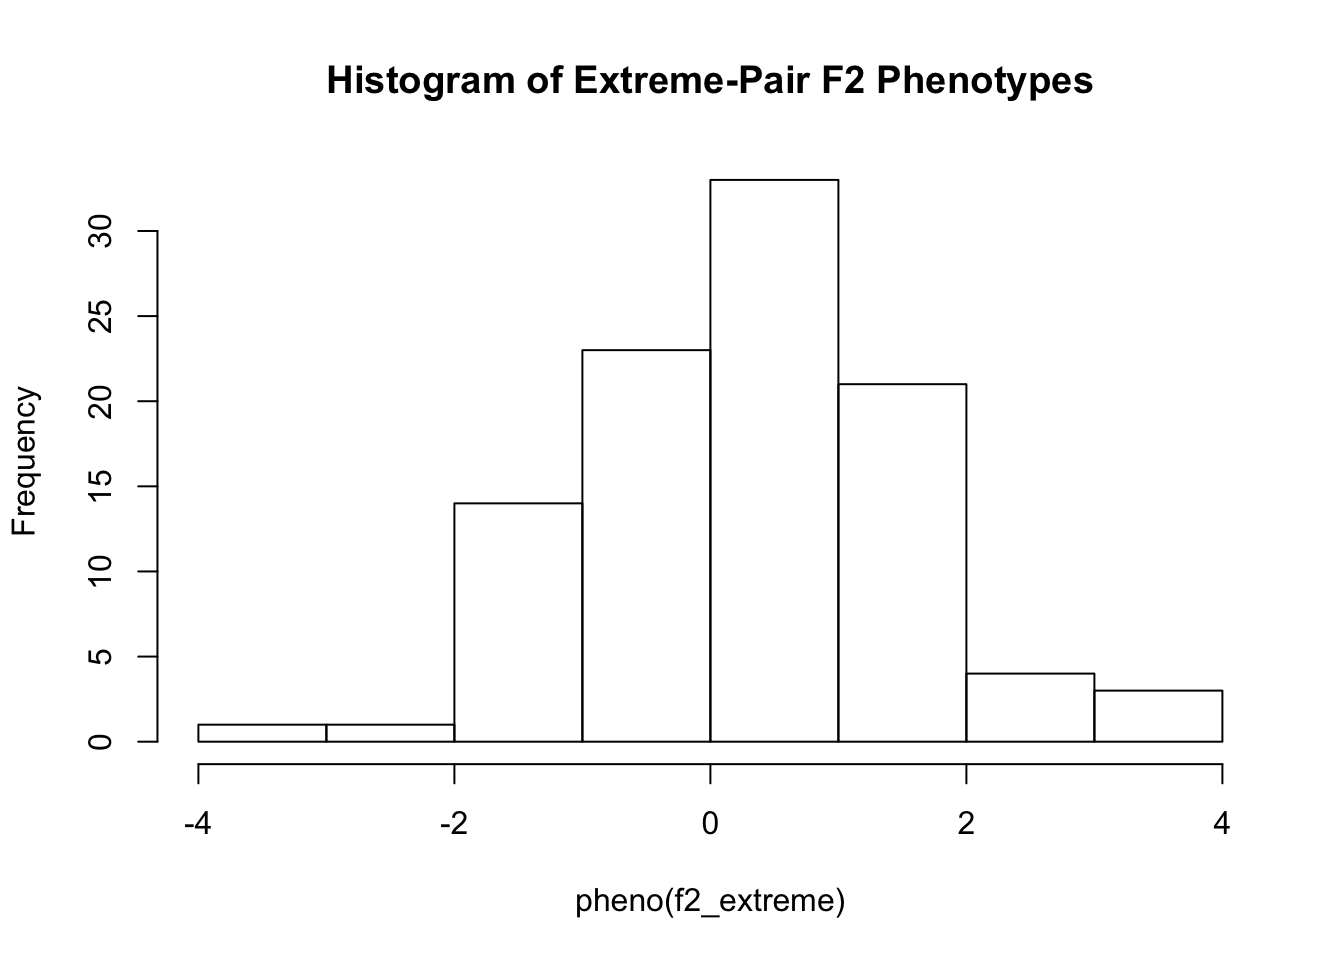
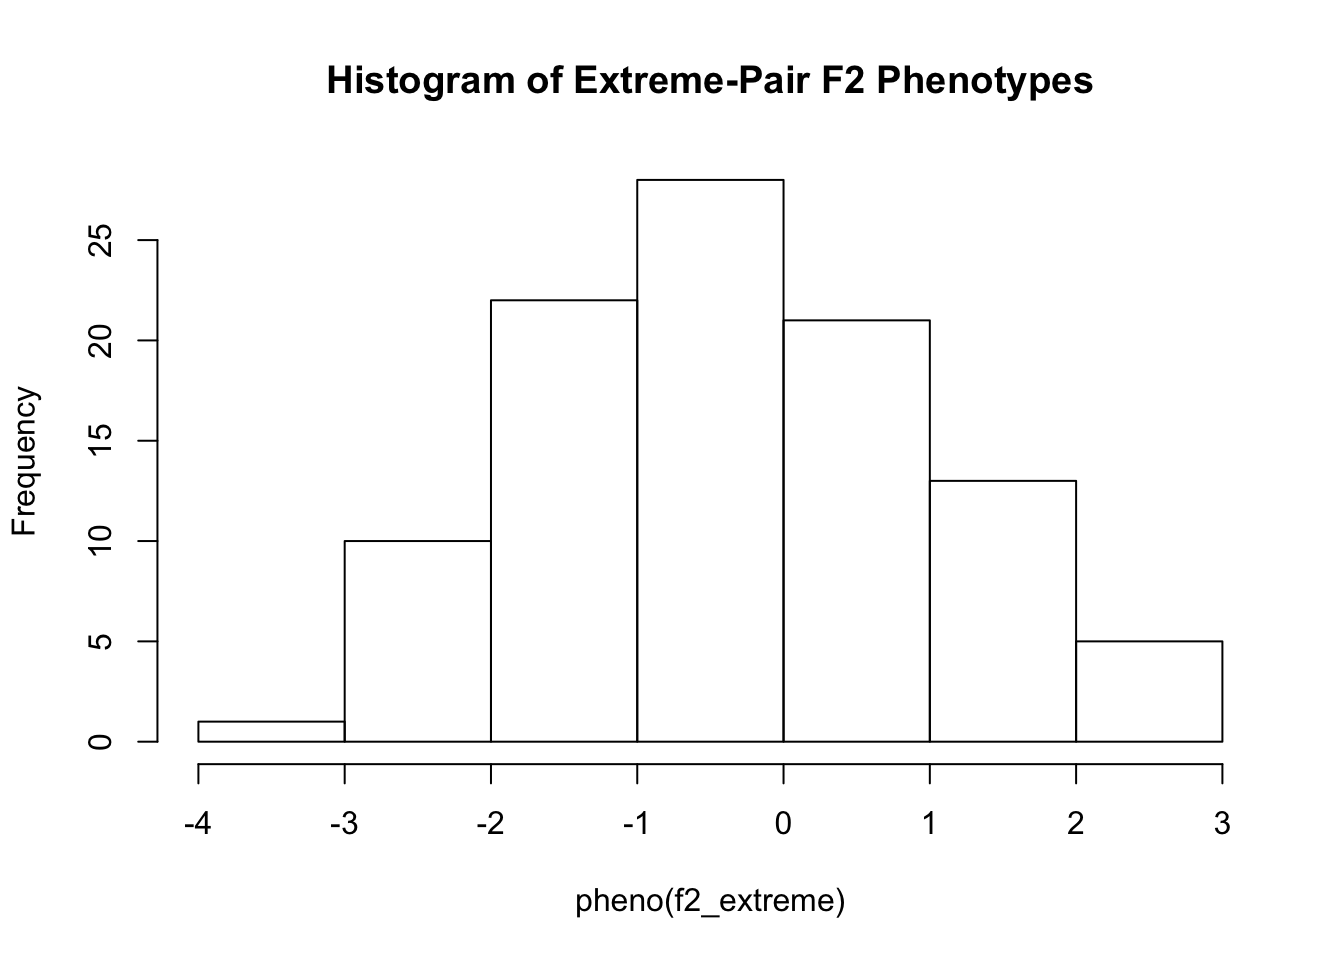
Build site.

diff --git a/docs/Lab1_ProgrammingAlphaSimR.html b/docs/Lab1_ProgrammingAlphaSimR.html
@@ -506,10 +506,10 @@ This reproducible <a href="http://rmarkdown.rstudio.com">R Markdown</a> analysis
 <div class="panel panel-default">
 <div class="panel-heading">
 <p class="panel-title">
-<a data-toggle="collapse" data-parent="#workflowr-checks" href="#strongRepositoryversionstrongahrefhttpsgithubcomjeanlucjLab17170tree9d95adde55e31a5804fe2f893de73e1dae128329targetblank9d95adda"> <span class="glyphicon glyphicon-ok text-success" aria-hidden="true"></span> <strong>Repository version:</strong> <a href="https://github.com/jeanlucj/Lab1_7170/tree/9d95adde55e31a5804fe2f893de73e1dae128329" target="_blank">9d95add</a> </a>
+<a data-toggle="collapse" data-parent="#workflowr-checks" href="#strongRepositoryversionstrongahrefhttpsgithubcomjeanlucjLab17170treec641e33cbccf7460e207a8fb644c655479b4bc87targetblankc641e33a"> <span class="glyphicon glyphicon-ok text-success" aria-hidden="true"></span> <strong>Repository version:</strong> <a href="https://github.com/jeanlucj/Lab1_7170/tree/c641e33cbccf7460e207a8fb644c655479b4bc87" target="_blank">c641e33</a> </a>
 </p>
 </div>
[2 lines of base64/hex data omitted]
 <div class="panel-body">
 <p>
 Great! You are using Git for version control. Tracking code development and connecting the code version to the results is critical for reproducibility. The version displayed above was the version of the Git repository at the time these results were generated. <br><br> Note that you need to be careful to ensure that all relevant files for the analysis have been committed to Git prior to generating the results (you can use <code>wflow_publish</code> or <code>wflow_git_commit</code>). workflowr only checks the R Markdown file, but you know if there are other scripts or data files that it depends on. Below is the status of the Git repository when the results were generated:
@@ -520,6 +520,10 @@ Ignored files:
 
 Untracked files:
     Untracked:  .addToReadMe.txt
+
+Unstaged changes:
+    Deleted:    data/FileStructure.jpg
+    Deleted:    data/RcodeInDescription.jpg
 
 </code></pre>
 <p>
@@ -558,6 +562,40 @@ Message
 </tr>
 </thead>
 <tbody>
+<tr>
+<td>
+Rmd
+</td>
+<td>
+<a href="https://github.com/jeanlucj/Lab1_7170/blob/c641e33cbccf7460e207a8fb644c655479b4bc87/analysis/Lab1_ProgrammingAlphaSimR.Rmd" target="_blank">c641e33</a>
+</td>
+<td>
+jeanlucj
+</td>
+<td>
+2020-01-20
+</td>
+<td>
+Moving linked figures to see if they will appear in GitHub.io
+</td>
+</tr>
+<tr>
+<td>
+html
+</td>
+<td>
+<a href="https://rawcdn.githack.com/jeanlucj/Lab1_7170/d91a4ffd6c41d77658da6a9efc7d8f42c1e97555/docs/Lab1_ProgrammingAlphaSimR.html" target="_blank">d91a4ff</a>
+</td>
+<td>
+jeanlucj
+</td>
+<td>
+2020-01-20
+</td>
+<td>
+Build site.
+</td>
+</tr>
 <tr>
 <td>
 Rmd
@@ -661,7 +699,7 @@ pre code {
 </li>
 <li><code>workflowr</code> aims to make it easier to follow a coding workflow that will increase the communicability and reproducibility of your code, and constrain you somewhat to following that workflow. The package sets up a standard directory file structure and populates it with useful initial R markdown (.Rmd) files.<br />
 </li>
-<li><code>workflowr</code> also sets up the directory as a git version control repository. We will (probably) not teach git, but we encourage you all delving into it. Assume for the purpose of this class that you can use <code>workflowr</code> just to set up the file structure. <img src="../data/FileStructure.jpg" alt="Standard script directory organization" /><br />
+<li><code>workflowr</code> also sets up the directory as a git version control repository. We will (probably) not teach git, but we encourage you all delving into it. Assume for the purpose of this class that you can use <code>workflowr</code> just to set up the file structure. <img src="./FileStructure.jpg" alt="Standard script directory organization" /><br />
 There <a href="https://cran.r-project.org/web/packages/workflowr/vignettes/wflow-01-getting-started.html">is more</a> you can do with the package, and it’s worth checking it out (and its extensive documentation!)<br />
 </li>
 </ol>
@@ -777,7 +815,7 @@ The initial number of founders <code>nFounders</code> = 100<br />
 The number of chromosomes for the species is <code>nChr</code> = 10<br />
 Each chromosome has <code>segSites</code> = 1000 segregating sites<br />
 Each chromosome has <code>nQTL</code> = 10 QTL (i.e. segregating causal variants).<br />
-<img src="../data/RcodeInDescription.jpg" alt="The R markdown for that looks like this" /></p>
+<img src="./RcodeInDescription.jpg" alt="The R markdown for that looks like this" /></p>
 </div>
 <div id="parameters-to-readme" class="section level2">
 <h2>Parameters to README</h2>
@@ -813,7 +851,7 @@ str(founders)</code></pre>
   ..@ father : chr [1:100] &quot;0&quot; &quot;0&quot; &quot;0&quot; &quot;0&quot; ...
   ..@ gender : chr [1:100] &quot;&quot; &quot;&quot; &quot;&quot; &quot;&quot; ...
   ..@ nTraits: int 1
-  ..@ gv     : num [1:100, 1] -0.918 1.018 0.176 0.517 0.25 ...
+  ..@ gv     : num [1:100, 1] -0.139 0.554 -0.103 -0.49 1.3 ...
   ..@ pheno  : num [1:100, 1] NA NA NA NA NA NA NA NA NA NA ...
   ..@ ebv    : num[1:100, 0 ] 
   ..@ gxe    :List of 1
@@ -825,16 +863,16 @@ str(founders)</code></pre>
   ..@ ploidy : int 2
   ..@ nLoci  : int [1:10] 1000 1000 1000 1000 1000 1000 1000 1000 1000 1000
   ..@ geno   :List of 10
-  .. ..$ : raw [1:125, 1:2, 1:100] 10 c2 38 6a ...
-  .. ..$ : raw [1:125, 1:2, 1:100] 04 92 35 6f ...
-  .. ..$ : raw [1:125, 1:2, 1:100] 78 b4 0b d0 ...
-  .. ..$ : raw [1:125, 1:2, 1:100] 10 0e 25 80 ...
-  .. ..$ : raw [1:125, 1:2, 1:100] 5a e2 61 b9 ...
-  .. ..$ : raw [1:125, 1:2, 1:100] ca 03 64 00 ...
-  .. ..$ : raw [1:125, 1:2, 1:100] 01 19 85 07 ...
-  .. ..$ : raw [1:125, 1:2, 1:100] cd 7b ca 17 ...
-  .. ..$ : raw [1:125, 1:2, 1:100] c0 96 5d 03 ...
-  .. ..$ : raw [1:125, 1:2, 1:100] 10 48 32 1b ...
+  .. ..$ : raw [1:125, 1:2, 1:100] ec 0e 6c 87 ...
+  .. ..$ : raw [1:125, 1:2, 1:100] 49 59 67 e7 ...
+  .. ..$ : raw [1:125, 1:2, 1:100] 43 60 4a 40 ...
+  .. ..$ : raw [1:125, 1:2, 1:100] 20 aa 43 e5 ...
+  .. ..$ : raw [1:125, 1:2, 1:100] fa 80 b0 78 ...
+  .. ..$ : raw [1:125, 1:2, 1:100] 08 2c e0 45 ...
+  .. ..$ : raw [1:125, 1:2, 1:100] 52 f2 81 82 ...
+  .. ..$ : raw [1:125, 1:2, 1:100] 8e c8 88 14 ...
+  .. ..$ : raw [1:125, 1:2, 1:100] c0 5b 13 a2 ...
+  .. ..$ : raw [1:125, 1:2, 1:100] 16 e6 15 67 ...
   .. ..- attr(*, &quot;dim&quot;)= int [1:2] 10 1</code></pre>
 </div>
 <div id="population-information" class="section level2">
@@ -845,7 +883,7 @@ str(founders)</code></pre>
 testID &lt;- test@id
 firstInd &lt;- test[order(testID)[1]]
 print(testID)</code></pre>
-<pre><code>[1] &quot;75&quot; &quot;8&quot;  &quot;30&quot;</code></pre>
+<pre><code>[1] &quot;5&quot;  &quot;94&quot; &quot;97&quot;</code></pre>
 <pre class="r"><code>print(firstInd)</code></pre>
 <pre><code>An object of class &quot;Pop&quot; 
 Ploidy: 2 
@@ -854,7 +892,7 @@ Chromosomes: 10
 Loci: 10000 
 Traits: 1 </code></pre>
 <pre class="r"><code>print(firstInd@id)</code></pre>
-<pre><code>[1] &quot;30&quot;</code></pre>
+<pre><code>[1] &quot;5&quot;</code></pre>
 </div>
 <div id="outbreak-of-variation" class="section level2">
 <h2>Outbreak of variation</h2>
@@ -902,7 +940,7 @@ f1_extreme &lt;- makeCross(extremeInd, crossPlan)</code></pre>
 <pre class="r"><code>f2_average &lt;- self(f1_average, nProgeny=100)
 f2_average &lt;- setPheno(f2_average, varE=1)
 cat(&quot;Genotypic variance of F2 between average pair&quot;, round(varG(f2_average), 3))</code></pre>
-<pre><code>Genotypic variance of F2 between average pair 0.436</code></pre>
+<pre><code>Genotypic variance of F2 between average pair 0.346</code></pre>
 <pre class="r"><code>hist(pheno(f2_average), main=&quot;Histogram of Average-Pair F2 Phenotypes&quot;)</code></pre>
 <p><img src="figure/Lab1_ProgrammingAlphaSimR.Rmd/Make%20F2-1.png" width="672" style="display: block; margin: auto;" /></p>
 <p>
@@ -929,6 +967,17 @@ Date
 <tbody>
 <tr>
 <td>
+<a href="https://github.com/jeanlucj/Lab1_7170/blob/d91a4ffd6c41d77658da6a9efc7d8f42c1e97555/docs/figure/Lab1_ProgrammingAlphaSimR.Rmd/Make F2-1.png" target="_blank">d91a4ff</a>
+</td>
+<td>
+jeanlucj
+</td>
+<td>
+2020-01-20
+</td>
+</tr>
+<tr>
+<td>
 <a href="https://github.com/jeanlucj/Lab1_7170/blob/602d7eb7d861d46218767fb5b678276a51545c4c/docs/figure/Lab1_ProgrammingAlphaSimR.Rmd/Make F2-1.png" target="_blank">602d7eb</a>
 </td>
 <td>
@@ -945,7 +994,7 @@ jeanlucj
 <pre class="r"><code>f2_extreme &lt;- self(f1_extreme, nProgeny=100)
 f2_extreme &lt;- setPheno(f2_extreme, varE=1)
 cat(&quot;Genotypic variance of F2 between extreme pair&quot;, round(varG(f2_extreme), 3))</code></pre>
-<pre><code>Genotypic variance of F2 between extreme pair 0.458</code></pre>
+<pre><code>Genotypic variance of F2 between extreme pair 1.093</code></pre>
 <pre class="r"><code>hist(pheno(f2_extreme), main=&quot;Histogram of Extreme-Pair F2 Phenotypes&quot;)</code></pre>
 <p><img src="figure/Lab1_ProgrammingAlphaSimR.Rmd/Make%20F2-2.png" width="672" style="display: block; margin: auto;" /></p>
 <p>
@@ -972,6 +1021,17 @@ Date
 <tbody>
 <tr>
 <td>
+<a href="https://github.com/jeanlucj/Lab1_7170/blob/d91a4ffd6c41d77658da6a9efc7d8f42c1e97555/docs/figure/Lab1_ProgrammingAlphaSimR.Rmd/Make F2-2.png" target="_blank">d91a4ff</a>
+</td>
+<td>
+jeanlucj
+</td>
+<td>
+2020-01-20
+</td>
+</tr>
+<tr>
+<td>
 <a href="https://github.com/jeanlucj/Lab1_7170/blob/602d7eb7d861d46218767fb5b678276a51545c4c/docs/figure/Lab1_ProgrammingAlphaSimR.Rmd/Make F2-2.png" target="_blank">602d7eb</a>
 </td>
 <td>
@@ -993,7 +1053,7 @@ jeanlucj
 f1_extremeMany &lt;- makeCross(extremeInd, crossPlan)
 f1_extremeMany &lt;- setPheno(f1_extremeMany, varE=1)
 cat(&quot;Genotypic variance of F1 between extreme pair&quot;, round(varG(f1_extremeMany), 3))</code></pre>
-<pre><code>Genotypic variance of F1 between extreme pair 0.03</code></pre>
+<pre><code>Genotypic variance of F1 between extreme pair 0</code></pre>
 <pre class="r"><code>hist(pheno(f1_extremeMany), main=&quot;Histogram of Extreme-Pair *F1* Phenotypes&quot;)</code></pre>
 <p><img src="figure/Lab1_ProgrammingAlphaSimR.Rmd/Make%20many%20hybrids-1.png" width="672" style="display: block; margin: auto;" /></p>
 <p>
@@ -1018,6 +1078,17 @@ Date
 </tr>
 </thead>
 <tbody>
+<tr>
+<td>
+<a href="https://github.com/jeanlucj/Lab1_7170/blob/d91a4ffd6c41d77658da6a9efc7d8f42c1e97555/docs/figure/Lab1_ProgrammingAlphaSimR.Rmd/Make many hybrids-1.png" target="_blank">d91a4ff</a>
+</td>
+<td>
+jeanlucj
+</td>
+<td>
+2020-01-20
+</td>
+</tr>
 <tr>
 <td>
 <a href="https://github.com/jeanlucj/Lab1_7170/blob/602d7eb7d861d46218767fb5b678276a51545c4c/docs/figure/Lab1_ProgrammingAlphaSimR.Rmd/Make many hybrids-1.png" target="_blank">602d7eb</a>
